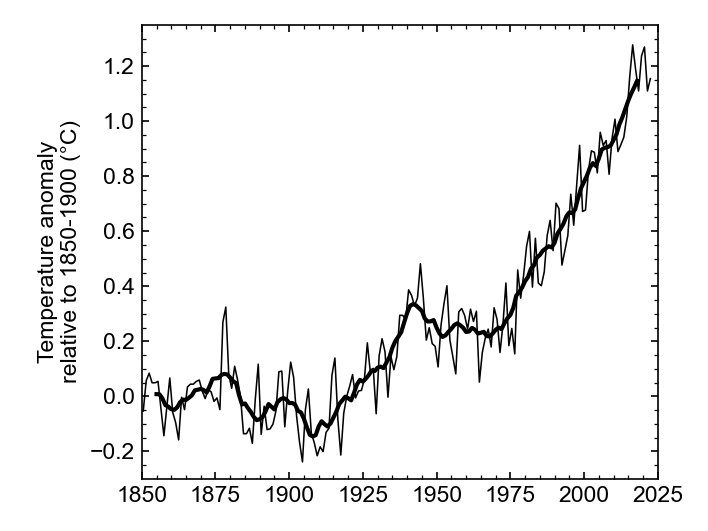
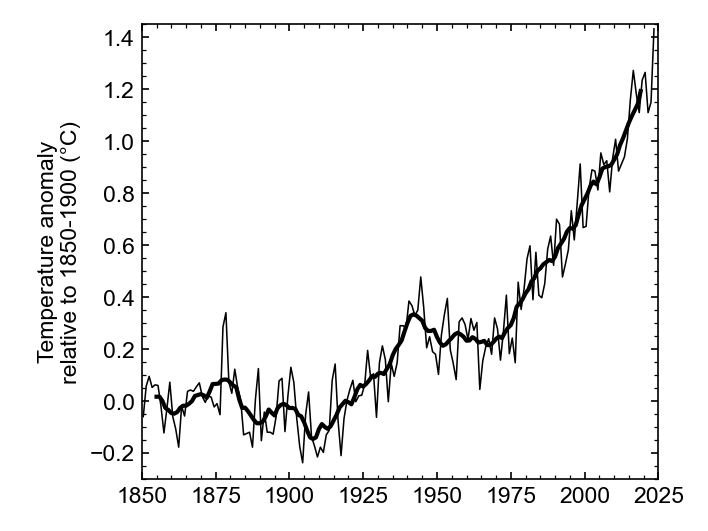
Update plot to 2023

diff --git a/makeplot.py b/makeplot.py
@@ -19,7 +19,7 @@ pl.plot(data.year, data['Annual mean'], lw=0.75, color='k')
 pl.plot(data.year_dec, data['Decadal mean'], lw=2, color='k')
 pl.ylabel('Temperature anomaly\nrelative to 1850-1900 (°C)')
 pl.xlim(1850, 2025)
-pl.ylim(-0.3, 1.35)
+pl.ylim(-0.3, 1.45)
 pl.tight_layout()
 pl.savefig('annual_decadal_mean_gmst.pdf')
 pl.savefig('annual_decadal_mean_gmst.png')
